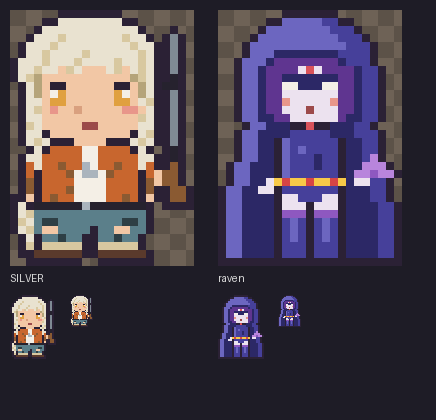
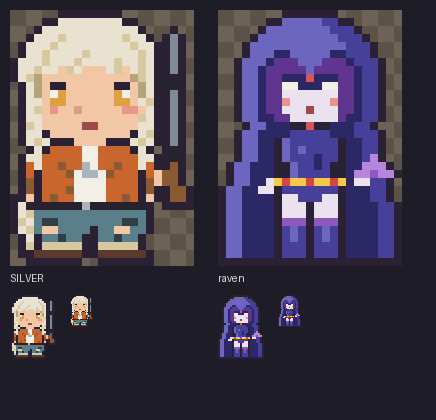
Рейвен: острый мыс капюшона, взрослая фигура
Claude-Session: https://claude.ai/code/session_01Ptjb8WXECtNjd1cqN5uUGX

diff --git a/drafts/workers.js b/drafts/workers.js
@@ -24,9 +24,9 @@
 // ===== Медаедь: бурый медведь стоит на двух лапах, обнимает горшок с мёдом, мёд на морде =====
   const HONEYBEAR = ['2.2kC2k9.2kC2k2.', '.k5C9k5Ck.', ".kC2f2Ck4'3Ck2C2fCk.", ".kC2fC4'8C2fCk.", ".k3C3'13Ck.", "2.2k2'13C2k2.", "2.k'2C2k7C2k3Ck2.", '2.k3Cwk7Cwk3Ck2.', '2.k8Cf7CBk2.', '2.k2Cc3Cf3kf3Cc2Bk2.', '2.k5C3fk3f5Bk2.', '3.k4C2fkfk2f4Bk3.', '4.k3C2f&*&2f3Bk4.', '5.k3CBf&f4Bk5.', '6.2k7B2k6.', "2.3k2'9CB3k3.", ".k2'Ck'9CBk2CBk.", ".k2'Ck'9kBk2CBk.", ".k2'C2k*2&*3&*&2k2CBk.", ".k2'C2k&`&3`&2`2k2CBk.", ".k2'3C'k2-&3-k4CBk.", ".k2'4Ck-&*&-k4C2Bk.", "2.2k2'2Ck5-k2CB3k2.", "3.kC'Ck`5-mkC2Bk3.", "3.k2C2'7k4Bk3.", '3.k6C3F6Ck3.', '3.k6CkBk6Ck3.', '3.k6Ck.k6Ck3.', '3.k6Ck.k6Ck3.', '3.k6Ck.k6Ck3.', '3.2k4f2k.2k4f2k3.', '4.6k3.6k4.'];
 
-// ===== Рейвен (Teen Titans): капюшон, распахнутый плащ, светящиеся глаза, красный камень на лбу, пояс из золотых дисков, высокие сапоги, в руке тёмная магия =====
+// ===== Рейвен (взрослая версия): капюшон с острым мысом над лбом, распахнутый плащ, светящиеся глаза, красный камень на лбу, пояс из золотых дисков, высокие сапоги, в руке тёмная магия =====
 // Новые цвета в PAL (русские буквы): ж: '#6c66c0' (плащ, свет), з: '#46409a' (плащ и купальник), э: '#2c2866' (тень плаща), и: '#ece2ef' (бледная кожа)
-  const RAVEN = ['8.7k8.', '6.2k5ж2з2k6.', '5.k8ж3зk5.', '4.k10ж3зk4.', '3.k12ж3зk3.', '3.k3ж8э4зk3.', '2.k3жэ8шэ3зk3.', '2.k2жэ4шиRи4шэ2зk2.', '2.k2жэ2ш7э2шэ2зk2.', '2.k2жэ2ш2w3э2w2шэ2зk2.', '2.k2жэ2ш7и2шэ2зk2.', '2.k2жэ2шc5иc2шэ2зk2.', '2.k2жэ2ш3иm3и2шэ2зk2.', '2.k2ж2э2ш6иш2э2зk2.', '3.k2ж3э2kR2k3э2зk3.', '2.k2ж4э5з3э3зk2.', '2.k2ж2эkж6зk2э2зk2.', '2.k2ж2эkжзж4зk2э2зk2.', '2.k2ж2эkж3зэ2зk2эзфk2.', '.k2ж3эkж3зэ2зk2э3фk.', '.k2ж3эkж6зkэ2фч2фk', '.k2ж2эиZ$2Z$2Z$Zэ2и2зk.', 'k2ж2э2иk7зk3э2зk.', 'k2ж4эk2и3з2иk3э2зk.', 'k2ж4эk3иk3иk4э2зk', 'k2ж4эk3чk3чk4э2зk', 'k2ж4эkзжзkзжзk4э2зk', 'k2ж4эkзжзkзжзk4э2зk', 'k2ж4эkзжзkзжзk4э2зk', 'k2ж4эk3зk3зk4э2зk', 'k2ж4эk3зk3зk4э2зk', '23k'];
+  const RAVEN = ['8.7k8.', '6.2k5ж2з2k6.', '5.k8ж3зk5.', '4.k10ж3зk4.', '3.k12ж3зk3.', '3.k3ж2э5ж2э3зk3.', '2.k3жэ3ш3ж3шэ3зk2.', '2.k2жэ5шж5шэ2зk2.', '2.k2жэ2ш3эR3э2шэ2зk2.', '2.k2жэ2ш2w3э2w2шэ2зk2.', '2.k2жэ2ш7и2шэ2зk2.', '2.k2жэ2шc5иc2шэ2зk2.', '2.k2жэ2ш3иm3и2шэ2зk2.', '2.k2ж2э2ш6иш2э2зk2.', '3.k2ж3э2kR2k3э2зk3.', '2.k2ж4э5з3э3зk2.', '2.k2ж2эkж6зk2э2зk2.', '2.k2ж2эkжзж4зk2э2зk2.', '2.k2ж2эkж3зэ2зk2эзфk2.', '.k2ж3э2kж2зэз2k2э3фk.', '.k2ж3э2kж4з2kэ2фч2фk', '.k2ж2эиZ$2Z$2Z$Zэ2и2зk.', 'k2ж2э2иk7зk3э2зk.', 'k2ж4эk2и3з2иk3э2зk.', 'k2ж4эk3иk3иk4э2зk', 'k2ж4эk3иk3иk4э2зk', 'k2ж4эk3чk3чk4э2зk', 'k2ж4эkзжзkзжзk4э2зk', 'k2ж4эkзжзkзжзk4э2зk', 'k2ж4эk3зk3зk4э2зk', 'k2ж4эk3зk3зk4э2зk', '23k'];
 
 // ===== drafts/workshops-6-7.js, сцена пиццы: заменяет блок кота (от "// the cat:" до "// flour sacks") =====
 // Пока карта Сквонча не взята, он сидит за столиком; когда он на заводе, стул пустой.

diff --git a/docs/employees.md b/docs/employees.md
@@ -94,4 +94,4 @@
 - **Подсолнух ГВ2:** жёлтые лепестки с бледными кончиками, круглое оранжевое лицо, карие глаза с бликами, широкая улыбка, румянец и веснушки. Зелёный стебель с двумя листиками, внизу два больших листа вместо ног. Спрайт одобрен.
 - **Живой плющ/мухобойка:** голова-ловушка в профиль, пасть открыта влево, зубы сверху и снизу, розовая пасть, свисает рыжий язык. Шея-стебель уходит в серый глиняный горшок, из него торчат зубчатые листья, корни оплетают горшок и служат ножками. Спрайт одобрен.
 - **Медаедь:** бурый медведь, стоит на двух лапах. Круглые уши, светлая морда, мёд на подбородке, румянец. Обнимает глиняный горшок с мёдом, мёд течёт через край. Референса нет, нарисован по описанию. Спрайт одобрен. Перк и скилл по мему «мужчина или медведь» (с кем женщина выбрала бы остаться в лесу).
-- **Рейвен** (Teen Titans, референс от игрока): сине-фиолетовый капюшон и распахнутый до земли плащ, из-под капюшона тёмно-фиолетовые волосы, верх лица в тени, глаза светятся белым, бледная кожа, красный камень на лбу и красная застёжка плаща. Сине-фиолетовый купальник с высоким вырезом на бёдрах, пояс из золотых дисков с красными камнями, длинные ноги в высоких сапогах до бедра, в руке сгусток тёмной магии. Новые цвета в `PAL`: ж, з, э, и. Превью `drafts/raven-preview.png`. Ждёт одобрения.
+- **Рейвен** (взрослая версия, референс от игрока): сине-фиолетовый капюшон с острым мысом над лбом, как на референсе, и распахнутый до земли плащ, из-под капюшона тёмно-фиолетовые волосы, верх лица в тени, глаза светятся белым, бледная кожа, красный камень на лбу и красная застёжка плаща. Взрослая фигура с узкой талией, сине-фиолетовый купальник с высоким вырезом на бёдрах, пояс из золотых дисков с красными камнями, длинные ноги в высоких сапогах до бедра, в руке сгусток тёмной магии. Новые цвета в `PAL`: ж, з, э, и. Превью `drafts/raven-preview.png`. Ждёт одобрения.
